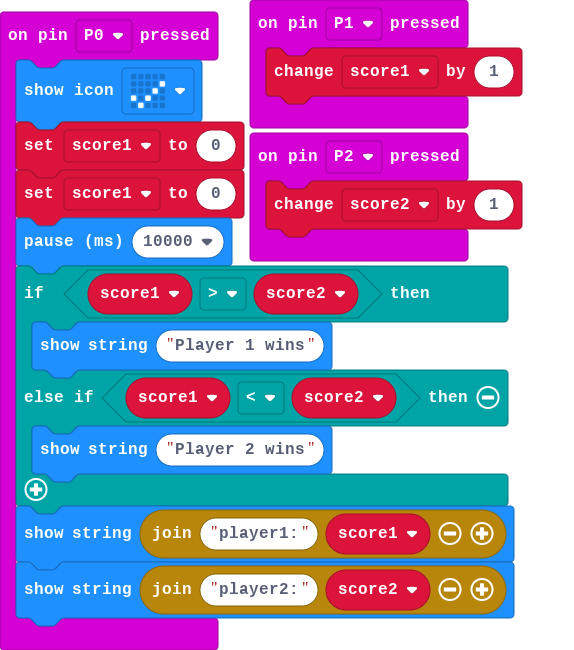
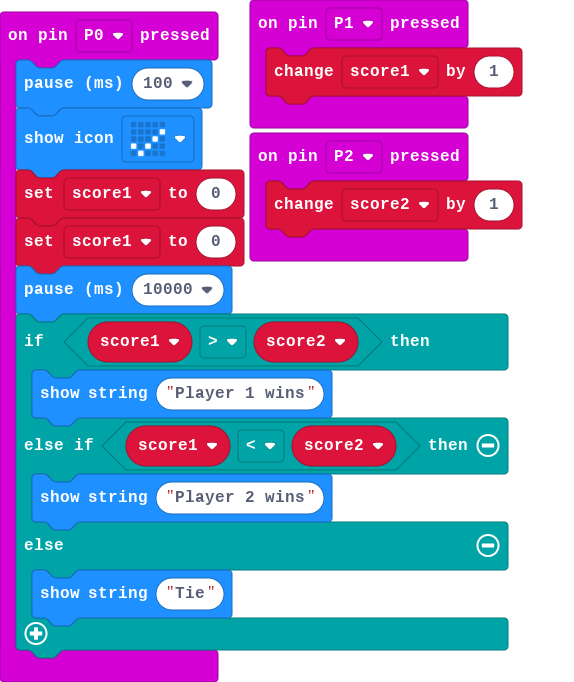
Update main.blocks, main.ts

diff --git a/main.ts b/main.ts
@@ -1,6 +1,7 @@
 let score1 = 0
 let score2 = 0
 input.onPinPressed(TouchPin.P0, function () {
+    basic.pause(100)
     basic.showIcon(IconNames.Yes)
     score1 = 0
     score1 = 0
@@ -9,9 +10,9 @@ input.onPinPressed(TouchPin.P0, function () {
         basic.showString("Player 1 wins")
     } else if (score1 < score2) {
         basic.showString("Player 2 wins")
+    } else {
+        basic.showString("Tie")
     }
-    basic.showString("player1:" + score1)
-    basic.showString("player2:" + score2)
 })
 input.onPinPressed(TouchPin.P2, function () {
     score2 += 1
